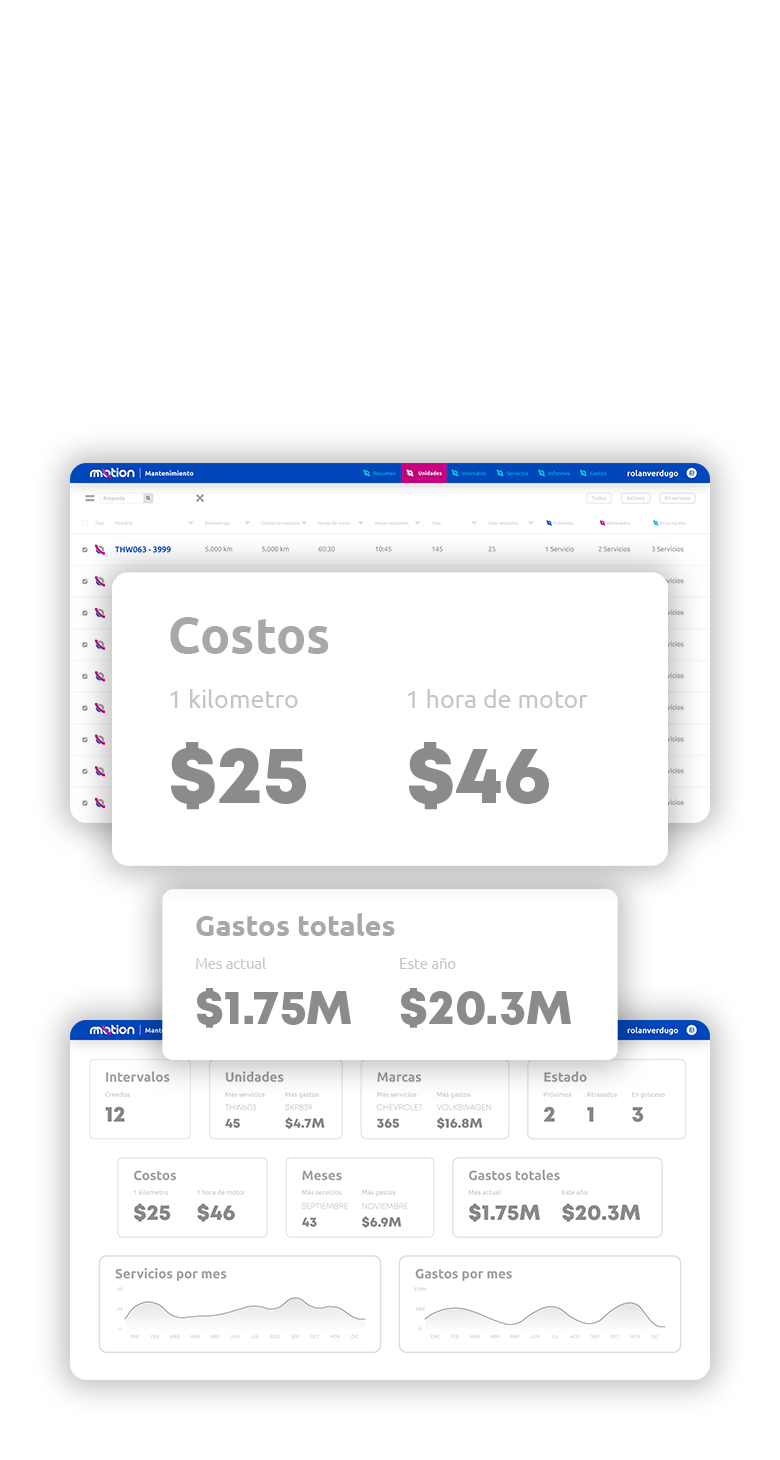
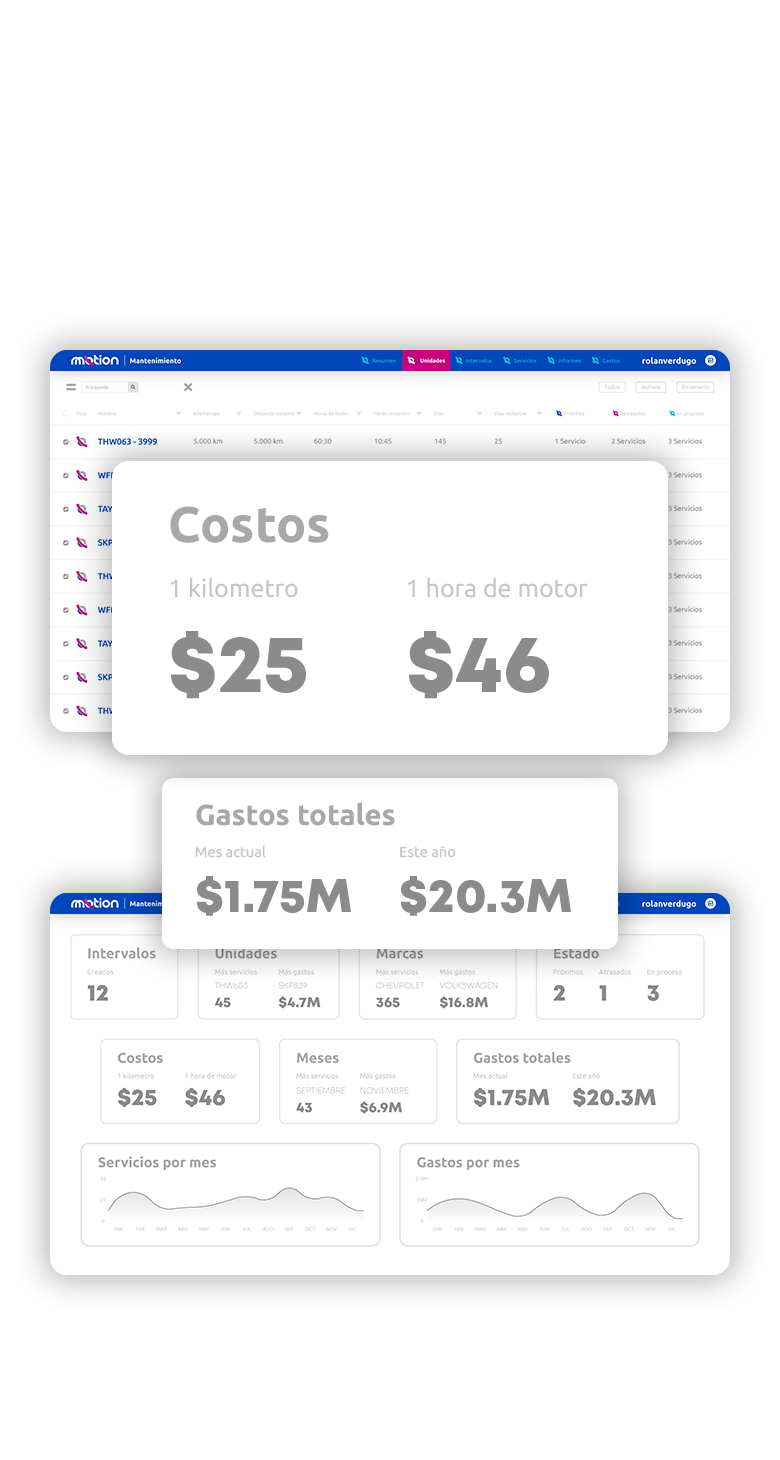
Images correction, padding and margin fixed for medium large screens.

Changed region(s): [[0.0308, 0.2158, 0.9538, 0.9555]]

diff --git a/static/src/css/style.css b/static/src/css/style.css
@@ -2541,8 +2541,8 @@ figure.icon {
 
     
     .navbar /*Agregada por Johnny*/ {
+        padding-top: 2rem;
         padding-bottom: 1rem;
-        padding-top: 1rem;
     }
 
     h3 /*Agregada por Johnny*/ {
@@ -2556,19 +2556,19 @@ figure.icon {
 
     .p-ml-02 /*Agregada por Johnny*/ {
         padding: 0 1rem !important;
-        margin-top: -6rem !important;
+        margin-top: -5rem !important;
     }
 
     .col-sm-7 /*Agregada por Johnny*/ {
-        margin-top: -6rem;
+        margin-top: -5rem;
     }
 
     .owl-nav .owl-next /*Agregada por Johnny*/ {
-        margin-top: -2rem;
+        margin-top: -1rem;
     }
 
     .owl-nav .owl-prev /*Agregada por Johnny*/ {
-        margin-top: -2rem;
+        margin-top: -1rem;
     }
 }
 
